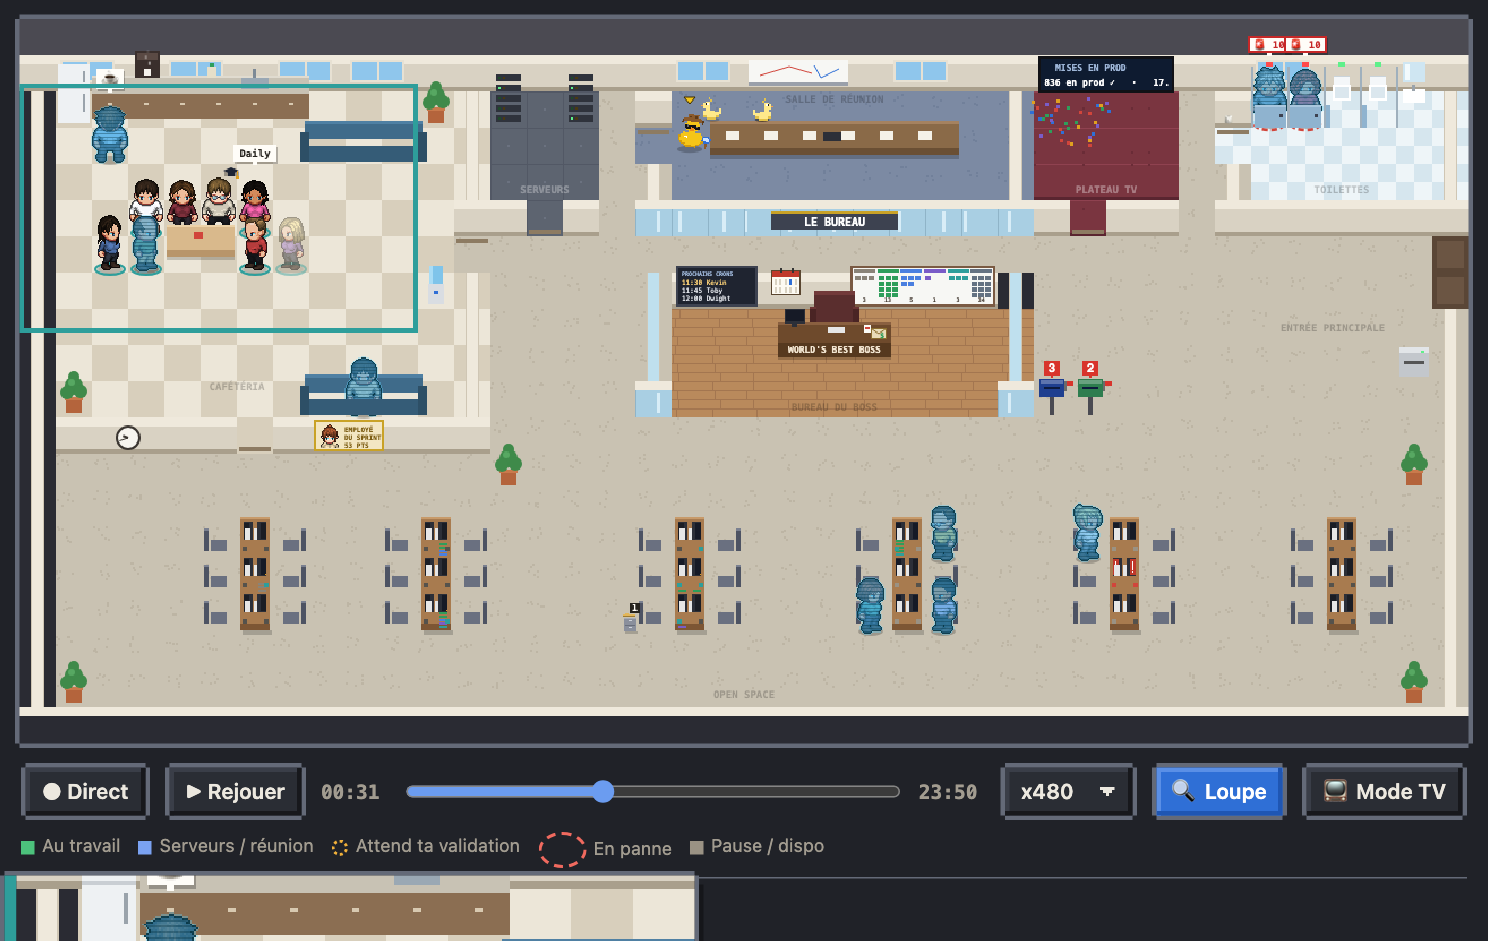
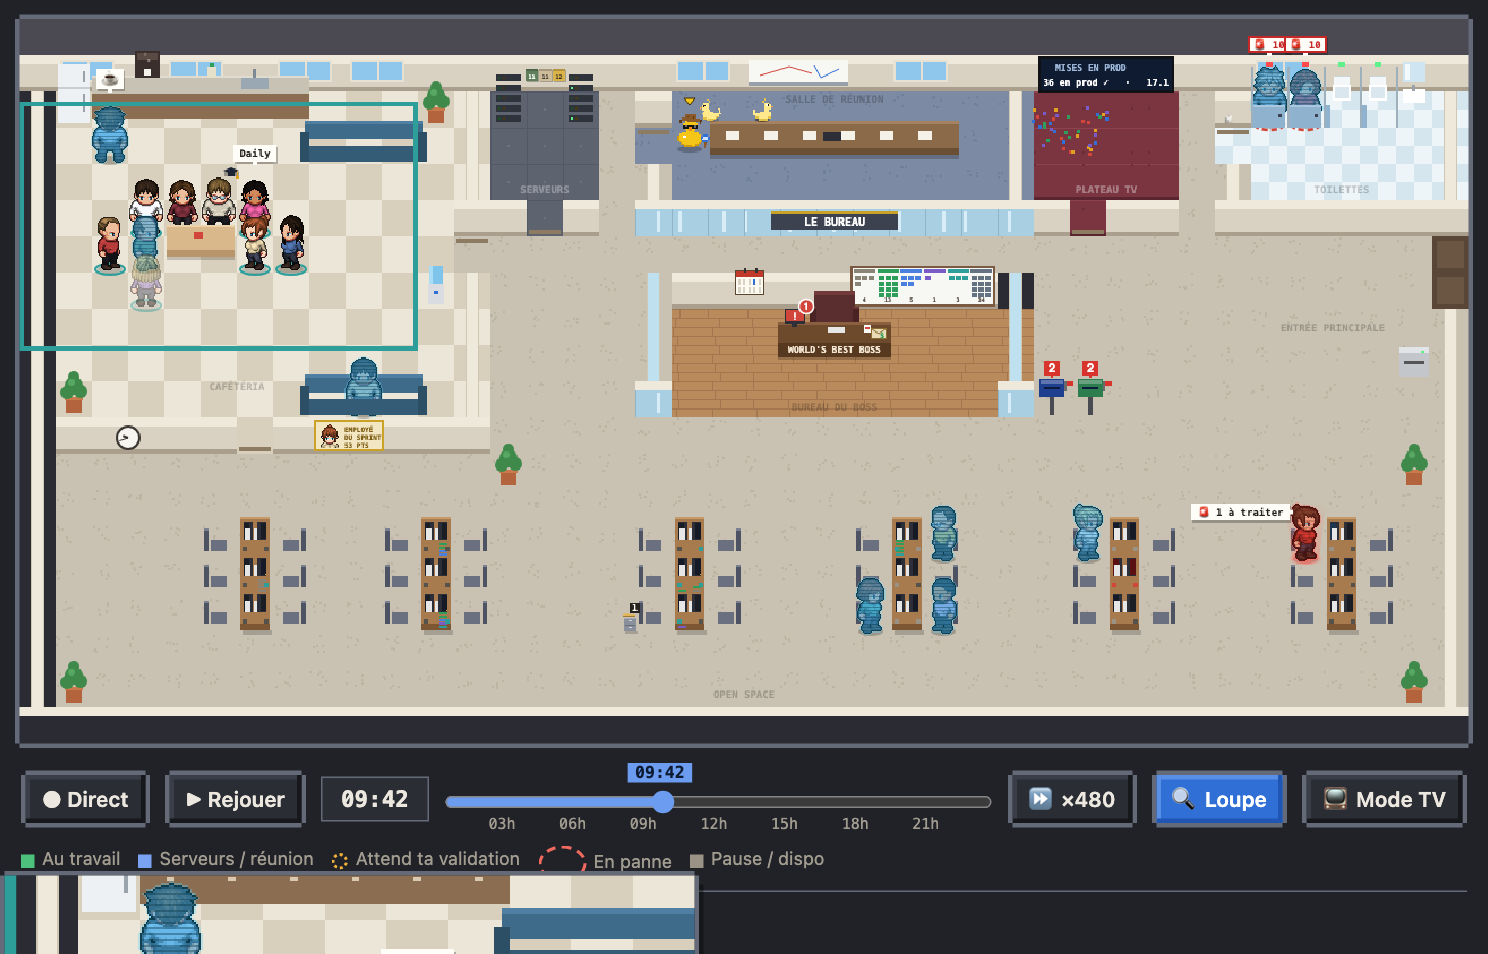
feat: rejouer la journée, heure à taper, vitesse en un bouton, « ⏵ revoir » depuis le fil (#104)
## 🎯 Quoi et pourquoi
Rejouer la journée sert surtout à retrouver un moment précis pour le
vérifier ou le montrer, et c'était difficile : l'heure n'était visible
que tout en haut de la page, les vitesses allaient de ×120 à ×1500, et
rien ne permettait de revoir une scène à vitesse normale. En lecture
rapide, les personnages marchaient à vitesse réelle : Gandalf traînait
vers la porte une heure et demie de journée après sa scène.

Maquettes validées (variante C pour la vitesse) ; les repères
d'événements sur la frise, « Moments du jour » et les boutons ±1 / ±10
min ont été écartés (trop volumineux).

## 🔧 Changements
- `page/office_template.html`, `page/src/80-input.js`,
`page/src/styles.css` : barre en une ligne : « ● Direct », « ▶ Rejouer
», **champ d'heure** (« 14:36 », « 14h36 », « 9 », Entrée : le bureau
s'y place en pause ; Échap rend l'heure affichée), **frise** avec une
bulle d'heure qui suit le curseur et les heures dessous (toutes les 3
h), **vitesse en un bouton** qui défile ×1, ×2, ×10, ×60, ×480. Sur
téléphone, la frise passe sur sa propre ligne.
- `page/src/70-kpis-feed.js` : **« ⏵ revoir »** sur chaque ligne datée
du fil (pas en mode TV) : `replayAt` place le bureau 20 s avant le
moment et lit en ×1, la loupe s'ouvre sur la scène comme en direct.
Vérifié dans Chrome sur la soucoupe-mère de la démo (la scène joue, la
facilitatrice est prise).
- `page/src/35-state.js` : en lecture, la marche accélère avec la
[…]

diff --git a/page/src/80-input.js b/page/src/80-input.js
@@ -48,7 +48,49 @@ function hitZone(ev){
   const mb=mailAt(mx,my);
   return mb?'mail:'+mb:duckHit(mx,my)?'duck':supportOpenable()&&inR(supportRect())?'support':bs&&inR(bs)?'bosspages':na&&inR(na)?'newagent':inR(PAYR)?'paie':inR(TVR)?'tv':inR(KANR)?'kanban':(()=>{const r=cronNoteRect();return r&&inR(r);})()?'planning':CALR&&ABSENCES&&inR(CALR)?'calendar':inR(EMPR)&&bestEmployee().length?'emp':null;}
 cv.addEventListener('click',e=>{if(TV)return;const c=hitTest(e);if(c){select(c.key);return;}const z=hitZone(e);if(z==='bosspages')openBossPages();else if(z==='support')openSupport();else if(z==='newagent')openNewAgent();else select(z);});
-const slider=document.getElementById('slider'), playBtn=document.getElementById('play'), liveBtn=document.getElementById('live'), speedSel=document.getElementById('speed');
+const slider=document.getElementById('slider'), playBtn=document.getElementById('play'), liveBtn=document.getElementById('live'), speedBtn=document.getElementById('speed');
+const tgo=document.getElementById('tgo'), tbub=document.getElementById('tbub');
+// vitesse du replay : un bouton qui passe à la suivante à chaque clic
+const SPEEDS=[1,2,10,60,480];
+let SPEED=480;
+function setSpeed(v){SPEED=v;speedBtn.textContent='⏩ ×'+v;speedBtn.setAttribute('aria-label','Vitesse du replay : ×'+v+', clic pour la suivante');}
+speedBtn.onclick=()=>setSpeed(SPEEDS[(SPEEDS.indexOf(SPEED)+1)%SPEEDS.length]);
+setSpeed(SPEED);
+// heure affichée dans la barre : le champ (tant qu'on n'y tape pas) et la bulle au-dessus du curseur
+function timeUi(){
+  if(!RSTART)return;
+  const f=Math.max(0,Math.min(1,(T-RSTART)/Math.max(1,REND-RSTART)));
+  tbub.textContent=hm(T);tbub.style.left=(f*100)+'%';
+  if(document.activeElement!==tgo)tgo.value=hm(T);
+  timeHours();
+}
+// repères d'heures sous la frise, toutes les 3 h (et les heures rondes quand la journée est courte)
+function timeHours(){
+  const box=document.getElementById('thours'); if(!box||!RSTART)return;
+  const span=Math.max(1,REND-RSTART), step=span>9*3600e3?3:1, out=[];
+  for(let t=parisMidnight(RSTART);t<=REND;t+=step*3600e3)if(t>=RSTART){const f=(t-RSTART)/span*100;
+    out.push(`<span style="left:${f}%${f<3?';transform:none':''}">${String(parisHM(t).h).padStart(2,'0')}h</span>`);}
+  const html=out.join(''); if(box.innerHTML!==html)box.innerHTML=html; // le direct avance : refait seulement quand ça change
+}
+// aller à une heure du jour affiché (« 14:36 », « 14h36 », « 9 ») ; refusée hors de la journée rejouable
+function parseHm(s){const m=String(s).trim().match(/^(\d{1,2})(?:[:h.](\d{1,2})?)?$/);if(!m)return null;const h=+m[1],mi=+(m[2]||0);return h<24&&mi<60?h*60+mi:null;}
+function goToTime(s){
+  const m=parseHm(s); if(m==null)return false;
+  const t=parisMidnight(RSTART)+m*60e3; if(t<RSTART-60e3||t>REND)return false;
+  setMode('pause');T=Math.max(RSTART,Math.min(REND,t));needTeleport=true;timeUi();
+  slider.value=Math.round((T-RSTART)/Math.max(1,REND-RSTART)*1000);
+  return true;
+}
+tgo.addEventListener('keydown',e=>{
+  if(e.key==='Enter'){e.preventDefault();const ok=goToTime(tgo.value);tgo.setAttribute('aria-invalid',String(!ok));if(ok)tgo.blur();}
+  else if(e.key==='Escape'){tgo.value=hm(T);tgo.blur();}
+});
+tgo.addEventListener('focus',()=>tgo.select());
+tgo.addEventListener('blur',()=>{tgo.removeAttribute('aria-invalid');tgo.value=hm(T);});
+// « ⏵ revoir » (fil de la journée) : 20 s avant le moment, lu en ×1, pour voir la scène se jouer (soucoupe, Gandalf…)
+function replayAt(t){
+  T=Math.max(RSTART,Math.min(REND,t-20e3));needTeleport=true;setSpeed(1);setMode('play');timeUi();
+}
 function setMode(m){
   mode=m;
   liveBtn.classList.toggle('on',m==='live');liveBtn.setAttribute('aria-pressed',String(m==='live'));
@@ -58,5 +100,5 @@ function setMode(m){
 }
 liveBtn.onclick=()=>{setMode('live');needTeleport=true;};
 playBtn.onclick=()=>{if(mode==='play'){setMode('pause');return;}if(mode==='live'||T>=REND-1000){T=RSTART;needTeleport=true;}setMode('play');};
-slider.addEventListener('input',()=>{setMode('pause');T=RSTART+(REND-RSTART)*slider.value/1000;needTeleport=true;});
+slider.addEventListener('input',()=>{setMode('pause');T=RSTART+(REND-RSTART)*slider.value/1000;needTeleport=true;timeUi();});
 

diff --git a/tests/replay.test.js b/tests/replay.test.js
@@ -1,0 +1,53 @@
+// Barre du replay (80-input.js) : heure tapée, vitesse en un bouton, « ⏵ revoir » du fil, marche accélérée en lecture.
+'use strict';
+const test = require('node:test');
+const assert = require('node:assert/strict');
+const {load} = require('./helpers/page.js');
+
+const page = load();
+const run = page.run;
+const J = code => JSON.parse(run('JSON.stringify(' + code + ')'));
+const M = 60e3;
+
+test('heure tapée : « 14:36 », « 14h36 », « 9 » ; refusée si elle n\'existe pas', () => {
+  assert.equal(J('parseHm("14:36")'), 14 * 60 + 36);
+  assert.equal(J('parseHm("14h36")'), 14 * 60 + 36);
+  assert.equal(J('parseHm(" 9 ")'), 9 * 60);
+  assert.equal(J('parseHm("25:00")'), null);
+  assert.equal(J('parseHm("12:75")'), null);
+  assert.equal(J('parseHm("midi")'), null);
+});
+
+test('aller à une heure : en pause, à cette heure du jour rejoué ; hors de la journée rejouable, refusé', () => {
+  const r = J(`(() => { setMode('live'); const ok = goToTime('10:30'); return {ok, mode, d: T - parisMidnight(RSTART)}; })()`);
+  assert.deepEqual(r, {ok: true, mode: 'pause', d: 10.5 * 3600e3});
+  const before = J('T');
+  assert.equal(J(`goToTime('23:59')`), J('parisMidnight(RSTART) + (23 * 60 + 59) * 60e3 <= REND'));
+  run(`T = ${before};`);
+  assert.equal(J(`goToTime('abc')`), false);
+});
+
+test('vitesse : un bouton qui passe à la suivante (×1, ×2, ×10, ×60, ×480, puis ×1)', () => {
+  run('setSpeed(480);');
+  const seq = J(`(() => { const out = []; for (let i = 0; i < 6; i++) { speedBtn.onclick(); out.push(SPEED); } return out; })()`);
+  assert.deepEqual(seq, [1, 2, 10, 60, 480, 1]);
+});
+
+test('lecture accélérée : on marche plus vite (Gandalf ne traîne plus vers la porte) ; en pause et en direct, vitesse normale', () => {
+  const b = (m, s) => J(`(() => { mode = '${m}'; setSpeed(${s}); return walkBoost(); })()`);
+  assert.equal(b('play', 1), 1);
+  assert.equal(b('play', 10), 1);
+  assert.equal(b('play', 60), 2);
+  assert.equal(b('play', 480), 8);
+  assert.equal(b('pause', 480), 1);
+  assert.equal(b('live', 480), 1);
+});
+
+test('« ⏵ revoir » : 20 s avant le moment, en ×1, en lecture ; un bouton sur chaque ligne datée du fil', () => {
+  const t = J('RSTART') + 120 * M;
+  const r = J(`(() => { replayAt(${t}); return {d: ${t} - T, SPEED, mode}; })()`);
+  assert.deepEqual(r, {d: 20e3, SPEED: 1, mode: 'play'});
+  assert.match(J(`rvBtn(${t})`), new RegExp(`^<button class="rv" data-rv="${t}"[^>]*>⏵ revoir</button>$`));
+  assert.equal(J(`rvBtn(RSTART - 60e3)`), ''); // avant la journée rejouable
+  assert.equal(J(`(() => { TV = true; const b = rvBtn(${t}); TV = false; return b; })()`), ''); // écran partagé : pas de bouton
+});

diff --git a/page/src/styles.css b/page/src/styles.css
@@ -58,6 +58,16 @@ button.on{background:var(--accent);border-color:var(--accent);color:var(--on-acc
 :focus-visible{outline:2px solid var(--accent);outline-offset:2px}
 canvas:focus-visible{outline-offset:-2px}
 input[type=range]{flex:1;min-width:160px;accent-color:var(--accent)}
+/* barre du replay : champ d'heure, frise avec la bulle de l'heure et les heures, vitesse en un bouton */
+.tgo{font:700 15px ui-monospace,Menlo,monospace;width:72px;text-align:center;padding:5px 4px;border:1px solid var(--line);border-radius:8px;background:var(--chip);color:var(--ink)}
+.tgo[aria-invalid=true]{border-color:var(--err);outline-color:var(--err)}
+.tl{position:relative;flex:1;min-width:160px;padding-top:18px;display:flex;flex-direction:column}
+.tl input[type=range]{width:100%;margin:0}
+.tbub{position:absolute;top:0;transform:translateX(-50%);background:var(--accent);color:var(--on-accent);font:600 11px ui-monospace,Menlo,monospace;padding:0 5px;border-radius:4px;pointer-events:none;white-space:nowrap}
+.thours{position:relative;height:13px;font:10px ui-monospace,Menlo,monospace;color:var(--muted)}
+.thours span{position:absolute;top:1px;transform:translateX(-50%)}
+.spd{font-variant-numeric:tabular-nums;min-width:74px}
+.ev .rv{font:600 10px ui-monospace,Menlo,monospace;padding:0 5px;margin:0 6px 0 0;border-radius:4px;color:var(--accent);background:transparent;border-color:currentColor;flex:none;align-self:center}
 .tlabel{font:600 13px ui-monospace,Menlo,monospace;color:var(--muted);min-width:44px}
 .legend{display:flex;gap:12px;flex-wrap:wrap;padding:6px 4px 0;color:var(--muted);font-size:12px}
 .legend i.sq{border-radius:1px;outline:1px solid #1a1320}
@@ -576,7 +586,7 @@ body.tv.tvscene #tvscene{display:flex;flex-direction:column}
   .main>div{display:flex;flex-direction:column}
   .main>div>.whoboard{order:-1;margin:0 0 14px}
   .stage>.legend{display:none}
-  .bar .tlabel{display:none}
+  .bar .tl{flex-basis:100%;order:5}
 }
 /* sélecteur de thème (dans « Comment lire le plan ») */
 .themesel{display:flex;align-items:center;gap:8px;margin-top:10px;font-size:12px;color:var(--muted)}

diff --git a/page/src/70-kpis-feed.js b/page/src/70-kpis-feed.js
@@ -388,6 +388,8 @@ function feedView(ev,mode){
   }
   return out;
 }
+// « ⏵ revoir » d'une ligne du fil (replayAt, 80-input.js) : seulement dans la journée rejouable, pas en mode TV
+const rvBtn=t=>!TV&&t>=RSTART&&t<=REND?`<button class="rv" data-rv="${t}" title="Revoir ce moment sur le plan : 20 s avant, en ×1" aria-label="Revoir ${hm(t)} sur le plan">⏵ revoir</button>`:'';
 function renderFeedList(view,all=FEED_ALL){
   FEED_VIEW=view;FEED_ALL=all;
   const box=document.getElementById('feed');
@@ -398,7 +400,7 @@ function renderFeedList(view,all=FEED_ALL){
   view.slice(0,FEED_N).forEach((e,i)=>{
     const h=parisHM(e.t).h;
     if(h!==lastH){html+=`<div class="evh">${h} h</div>`;lastH=h;}
-    html+=`<div class="ev${e.c?' fam-'+famOf(e.c):''}" data-i="${i}"${e.tv||e.duck||e.c?' tabindex="0" role="button"':''}><span class="tm">${hm(e.t)}</span><span class="x">${e.txt}</span></div>`;
+    html+=`<div class="ev${e.c?' fam-'+famOf(e.c):''}" data-i="${i}"${e.tv||e.duck||e.c?' tabindex="0" role="button"':''}><span class="tm">${hm(e.t)}</span>${rvBtn(e.t)}<span class="x">${e.txt}</span></div>`;
   });
   if(view.length>FEED_N)html+=`<button class="feedmore" data-feed-more>Voir plus (${view.length-FEED_N})</button>`;
   const ttl=document.getElementById('feedtitle'), w=dataDayWord();
@@ -417,6 +419,8 @@ function renderFeedList(view,all=FEED_ALL){
 document.getElementById('feed').addEventListener('keydown',keyClick);
 document.getElementById('feed').addEventListener('click',ev=>{
   if(ev.target.closest('[data-feed-more]')){FEED_N+=FEED_PAGE;renderFeedList(FEED_VIEW);return;}
+  const rv=ev.target.closest('[data-rv]'); // 80-input.js : revoir le moment sur le plan
+  if(rv){replayAt(+rv.dataset.rv);const s=document.querySelector('.stage');if(s)s.scrollIntoView({behavior:SCROLL_BEHAVIOR,block:'start'});return;}
   const lk=ev.target.closest('.lk');
   if(lk){ // un lien de la ligne : data-tk (fiche du ticket) est pris par le gestionnaire commun de 62-ticket.js, ↗ s'ouvre seul
     if(lk.dataset.who){ev.preventDefault();select(lk.dataset.who);}

diff --git a/page/office_template.html b/page/office_template.html
@@ -33,14 +33,9 @@
         <div class="bar">
           <button id="live" class="on" aria-pressed="true" title="Revenir au direct">● Direct</button>
           <button id="play" aria-pressed="false" title="Rejouer la journée en accéléré">▶ Rejouer</button>
-          <span class="tlabel" id="tstart">00:00</span>
-          <input type="range" id="slider" min="0" max="1000" value="1000" aria-label="Heure affichée">
-          <span class="tlabel" id="tend">--:--</span>
-          <select id="speed" aria-label="Vitesse du replay">
-            <option value="120">x120</option>
-            <option value="480" selected>x480</option>
-            <option value="1500">x1500</option>
-          </select>
+          <input type="text" id="tgo" class="tgo" inputmode="numeric" maxlength="5" value="--:--" aria-label="Aller à l'heure (hh:mm)" title="Tape une heure (ex. 14:36) puis Entrée">
+          <div class="tl"><span class="tbub" id="tbub" aria-hidden="true">--:--</span><input type="range" id="slider" min="0" max="1000" value="1000" aria-label="Heure affichée"><div class="thours" id="thours" aria-hidden="true"></div></div>
+          <button id="speed" class="spd" title="Vitesse du replay : clic pour passer à la suivante (×1, ×2, ×10, ×60, ×480)">⏩ ×480</button>
           <button id="loupebtn" class="on" aria-pressed="true" title="Loupe : un médaillon agrandi sur le plan quand un événement fort commence (réouverture, mise en prod, visite, fête, validation, lancement du sprint)">🔍 Loupe</button>
           <button id="tvbtn" title="Plein écran pour un écran d'open space (touche T, Échap pour sortir)">📺 Mode TV</button>
         </div>

diff --git a/page/src/35-state.js b/page/src/35-state.js
@@ -571,6 +571,9 @@ function goTo(c,spot){
   const from=c.path.length?c.path[0]:c.tile;
   c.path=(c.path.length?[c.path[0]]:[]).concat(findPath(from[0],from[1],spot.x,spot.y));
 }
+// en lecture accélérée, on marche plus vite (×1 à ×10 : pas de changement, ×60 : 2 fois, ×480 : 8 fois) : sinon un trajet
+// de 12 s réelles dure 1 h 30 de journée à ×480 (Gandalf qui traîne vers la porte longtemps après sa scène)
+const walkBoost=()=>typeof mode!=='undefined'&&mode==='play'?Math.min(8,Math.max(1,SPEED/30)):1;
 function step(c,dt){
   if(!c.pos)return;
   if(!c.path.length){c.moving=false;if(c.target)c.dir=c.target.dir;
@@ -578,7 +581,7 @@ function step(c,dt){
     return;}
   const [tx,ty]=c.path[0], last=c.path.length===1&&c.target&&c.target.x===tx&&c.target.y===ty;
   const g=last?spotPos(c.target):tileCenter(tx,ty);
-  const dx=g.x-c.pos.x, dy=g.y-c.pos.y, d=Math.hypot(dx,dy), v=95*dt;
+  const dx=g.x-c.pos.x, dy=g.y-c.pos.y, d=Math.hypot(dx,dy), v=95*dt*walkBoost();
   c.moving=true;
   if(Math.abs(dx)>Math.abs(dy))c.dir=dx>0?'right':'left';else if(d>0.1)c.dir=dy>0?'down':'up';
   if(d<=v){c.pos=g;c.tile=[tx,ty];c.path.shift();}else{c.pos.x+=dx/d*v;c.pos.y+=dy/d*v;}

diff --git a/page/src/90-boot.js b/page/src/90-boot.js
@@ -8,13 +8,13 @@ function loop(now){
   if(DATA){
     REND=liveT();
     if(mode==='live')T=REND;
-    else if(mode==='play'){T+=dt*1000*(+speedSel.value);if(T>=REND){T=REND;setMode('live');}}
+    else if(mode==='play'){T+=dt*1000*SPEED;if(T>=REND){T=REND;setMode('live');}}
     if(now-lastTick>250||needTeleport){tick(now);lastTick=now;}
     for(const c of chars)step(c,dt);
     tvAutoScroll(now,dt);
     if(now-lastUi>1000){lastUi=now;
       document.getElementById('clock').textContent=hms(T);
-      document.getElementById('tend').textContent=hm(REND);
+      timeUi();
       if(document.activeElement!==slider)slider.value=Math.round((T-RSTART)/Math.max(1,REND-RSTART)*1000);
       renderRecap();renderKpis();renderWho();renderFeed();updateFresh();updateTv();if(mode!=='live')updateBadge();
       if(!document.querySelector('.side details[open]'))renderSide();else refreshStatus();

diff --git a/page/src/30-data.js b/page/src/30-data.js
@@ -315,8 +315,7 @@ function setData(d,live){
   const firsts=d.runs.map(r=>r._s).filter(Boolean);
   RSTART=Math.max(DAY0,(firsts.length?Math.min(...firsts):DAY0)-15*60e3);
   REND=live?Date.now():ms(d.generated_at);
-  document.getElementById('tstart').textContent=hm(RSTART);
-  document.getElementById('tend').textContent=hm(REND);
+  timeHours();
   const b=document.getElementById('badge');
   b.classList.toggle('live',live);
   b.querySelector('span').textContent=live?'Données live':'Instantané du '+hm(ms(d.generated_at))+' (démo)';

diff --git a/README.md b/README.md
@@ -11,7 +11,7 @@ Une page Live pour [Kronn](https://github.com/DocRoms/Kronn) façon *The Office*
 | [Le plan](guide/fonctionnalites/01-plan.md) | Collègues, agents en hologramme (et ceux ajoutés depuis une baie de la salle Serveurs), visiteurs et invités de passage, placés selon ce qu'ils font ; lumière du jour ; loupe sur les événements forts (réouverture, mise en prod, visite, cérémonies), plan d'équipe validé par le boss, brouillon depuis un croquis ou une photo, passions de l'équipe, le canard en plastique qui se promène et grandit avec le sprint (stades, canetons, succès, petites scènes) ; l'agent qui sort de panne applaudi ; la soucoupe-mère qui dépose au mur Kanban un ticket ajouté en cours de sprint ; la tournée de café de 16h |
 | [Qui fait quoi](guide/fonctionnalites/03-qui-fait-quoi.md) | Une carte par personne et par agent : ce qu'il fait maintenant |
 | [Fil et récap](guide/fonctionnalites/04-fil-et-recap.md) | La journée heure par heure (ce qui t'attend en haut, tes actions, pannes, filtre par type), et son résumé depuis minuit |
-| [Rejouer la journée](guide/fonctionnalites/05-rejouer.md) | Direct, ou relecture accélérée de minuit à maintenant |
+| [Rejouer la journée](guide/fonctionnalites/05-rejouer.md) | Direct, ou relecture de la journée : heure à taper, vitesse de ×1 à ×480, « ⏵ revoir » une scène depuis le fil |
 | [Mode TV et cérémonies](guide/fonctionnalites/06-mode-tv.md) | Écran d'open space lisible à 3 m, tour de table du daily, sprint planning et rétrospective en salle de réunion |
 | [Fiches](guide/fonctionnalites/07-fiches.md) | Journée d'un agent ou d'un collègue ; fiche d'un ticket ou d'une PR (PR de plusieurs dépôts, en retard ou en conflit, la remettre à jour, faire relire et corriger ; chaque action avec l'agent qui la fait, l'action conseillée et où en est le ticket ; mise en prod seulement en To Deploy) ; programme d'un agent cron en clair et son prochain passage ; lancer (un champ par paramètre), relancer sans rien à remplir, interroger ; tes validations et les questions des discussions dans ta fiche de boss, à décider sur la page (bulle ✋ sur ton personnage) ; parler au canard et répondre à ses questions, son sprint et ses trophées ; fiche de paie ; cartes de passion (GitFut, Smash, dramas) |
 | [Murs du bureau](guide/fonctionnalites/08-murs.md) | Kanban du sprint, prochains crons en post-it (salle Serveurs), mises en prod, employé du sprint, écran mural de la salle de réunion avec tes autres pages Kronn (ajout et retrait depuis la page) |

diff --git a/guide/fonctionnalites/05-rejouer.md b/guide/fonctionnalites/05-rejouer.md
@@ -4,6 +4,9 @@ La barre sous le plan déplace l'heure affichée : tout le bureau (personnages, 
 
 ![Relecture en accéléré](../img/rejouer.png)
 
-- « ● Direct » : l'heure réelle. « ▶ Rejouer » : la journée en accéléré (×120, ×480 ou ×1500), retour au direct à la fin.
-- Le curseur va de minuit à la dernière donnée reçue.
+- « ● Direct » : l'heure réelle. « ▶ Rejouer » : la journée en accéléré, retour au direct à la fin.
+- **L'heure** : tape-la dans le champ (« 14:36 », « 14h36 » ou « 9 ») puis Entrée, et le bureau s'y place, en pause. Pendant que tu fais glisser le curseur, une bulle au-dessus donne l'heure ; les heures de la journée sont marquées sous la frise.
+- Le curseur va du premier run du jour (un quart d'heure avant) à la dernière donnée reçue.
+- **La vitesse** : le bouton « ⏩ ×480 » passe à la suivante à chaque clic (×1, ×2, ×10, ×60, ×480). En lecture rapide, les personnages marchent plus vite (jusqu'à 8 fois à ×480), pour arriver à temps à leurs scènes et repartir sans traîner.
+- **« ⏵ revoir »**, sur chaque ligne du fil de la journée : le bureau se place 20 s avant ce moment et le rejoue en ×1, pour voir la scène (soucoupe-mère qui va chercher la facilitatrice, Gandalf, Yoda, une mise en prod…) et la montrer. La loupe s'ouvre sur la scène comme en direct.
 - L'en-tête dit d'où viennent les données (direct, instantané, démo) ; voir [Fraîcheur](10-fraicheur.md). En rejeu ou en pause, son badge passe en ambre : « Rejeu 09:30 · données de 23:50 ».

diff --git a/CHANGELOG.md b/CHANGELOG.md
@@ -20,6 +20,7 @@ Format : [Keep a Changelog](https://keepachangelog.com/fr/1.1.0/). Versions : `0
 
 ### Modifié
 
+- Rejouer la journée : un champ pour taper l'heure, une bulle d'heure sur le curseur et les heures sous la frise, la vitesse en un bouton qui défile (×1, ×2, ×10, ×60, ×480, au lieu de ×120, ×480, ×1500), « ⏵ revoir » sur chaque ligne du fil (20 s avant, en ×1 : la scène se rejoue) ; en lecture rapide les personnages marchent plus vite (Gandalf ne traîne plus vers la porte après sa scène).
 - Console Support, réponse postée en fil : seulement les sections (les phrases de l'agent avant la première et après la dernière sautent), une ligne vide entre les sections, la mention « Généré de manière automatique 🤖 » sans italique (à republier avec `publish.py workflows`) ; fiche de l'agent Support plus compacte (bouton de la console sous le texte, un fil par ligne).
 - Mise en prod d'une PR : des projets différents en même temps (une seule à la fois par projet, `concurrency_key` du modèle, à republier avec `publish.py workflows`) ; l'agent montre toutes ses validations en attente (panneau du boss, sa fiche, compteurs) et va à la porte du boss dès qu'une attend.
 - Page plus légère : à l'assemblage, les appels `document.createElement` et `document.getElementById` répétés passent par un alias court (4,5 Ko).
